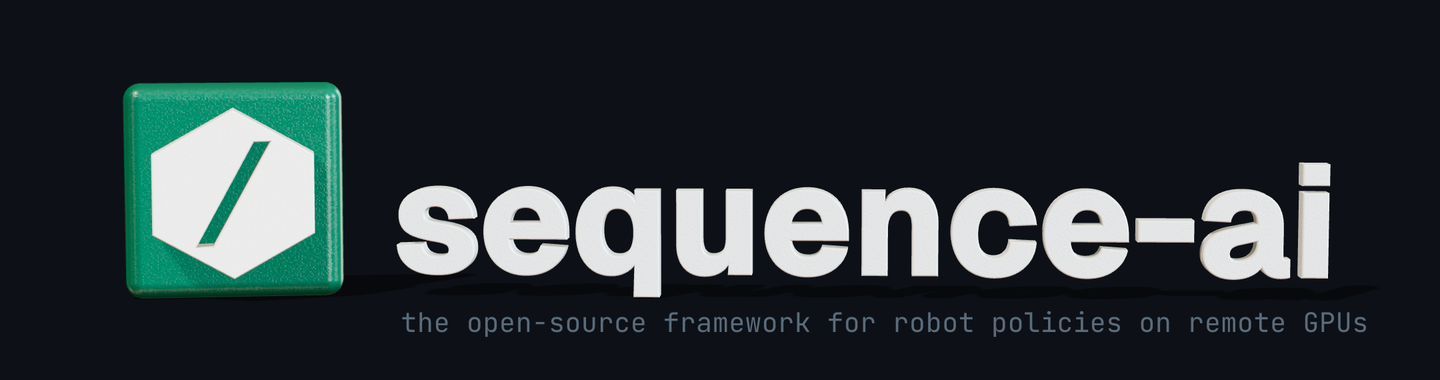
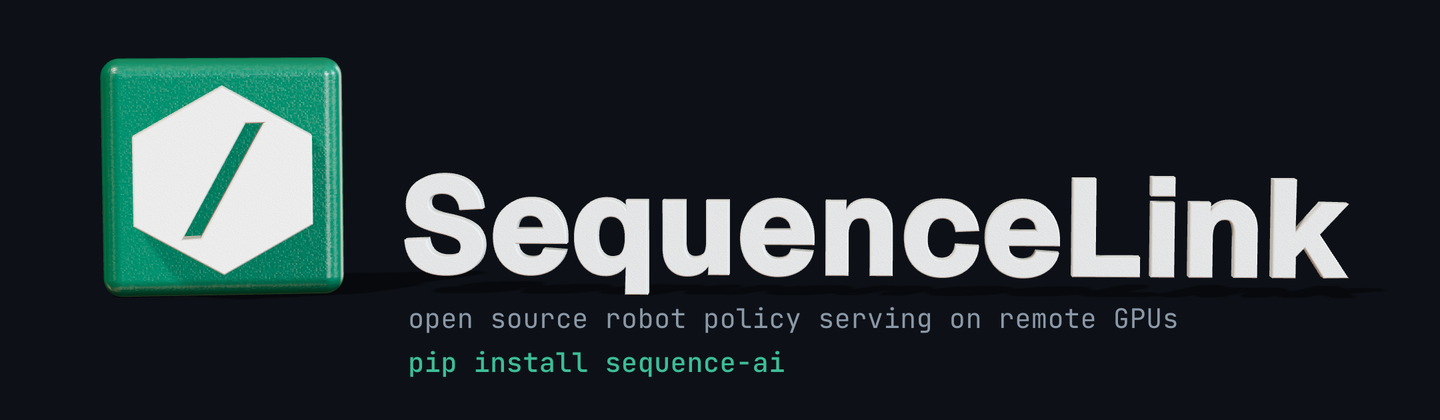
sequence-ai 0.64.1
A benchmark that types a setting no eval can set is refused when you deploy it, and a `--param` value reaches a text
parameter as you typed it.

### Changed

- `seq deploy` refuses a benchmark whose constructor types a setting no eval can set, such as
  `scale: float | str | None`, and says how to type it.

### Fixed

- `--param benchmark.scale=1.10` reaches a `str` parameter as `"1.10"`, as typed, not as `"1.1"`.

Changed region(s): [[0.0625, 0.1158, 0.9375, 0.7816], [0.2812, 0.8105, 0.9688, 0.8974]]

diff --git a/platform.md b/platform.md
@@ -1,7 +1,8 @@
-# The platform guide
+# The SequenceLink platform guide
 
-Deploy a robot policy on General Sequences, then drive a robot with it. This is the guide to the hosted platform that
-`sequence-ai` is the client of; the [README](README.md) has the components that run on any GPU.
+Deploy a robot policy on SequenceLink's hosted platform, on General Sequences' GPUs, then drive a robot with it. This is
+the guide to the hosted platform; `pip install sequence-ai` installs its client and the `seq` command, and the
+[README](README.md) has the open-source components that run on any GPU.
 
 ```bash
 pip install sequence-ai                  # Python 3.10+ for `seq`; a 3.9 robot gets the client alone
@@ -43,8 +44,8 @@ how to play the rows is your own loop: this one stops the arm while each answer 
 
 There is no shared model to call: every policy runs as a deployment of the account that deployed it, started from
 a template (`seq init --list`) or from your own code. `seq init <template>` writes the template's stable version
-when this sequence-ai can deploy it, and otherwise the newest version it can, saying which and why; `@stable`,
-`@beta` or `@vN` after the name is written as named, with a warning when this sequence-ai cannot deploy it.
+when your installed `sequence-ai` can deploy it, and otherwise the newest version it can, saying which and why; `@stable`,
+`@beta` or `@vN` after the name is written as named, with a warning when your installed `sequence-ai` cannot deploy it.
 
 ---
 
@@ -140,8 +141,8 @@ entire budget.
 
 On Linux, a connection that sent nothing for longer than its retransmission timeout restarts its congestion window
 (`net.ipv4.tcp_slow_start_after_idle`, on by default), so an upload of camera frames after a pause can take one more
-round trip. sequence-ai has its connection to the worker use BBR where the robot allows it: BBR does not restart, and
-`sudo modprobe tcp_bbr` makes it available - sequence-ai then takes it on its own. Or turn the restart off on the robot:
+round trip. SequenceLink has its connection to the worker use BBR where the robot allows it: BBR does not restart, and
+`sudo modprobe tcp_bbr` makes it available - SequenceLink then takes it on its own. Or turn the restart off on the robot:
 `sudo sysctl -w net.ipv4.tcp_slow_start_after_idle=0` (in a container, which has its own copy of it:
 `docker run --sysctl net.ipv4.tcp_slow_start_after_idle=0 ...`).
 
@@ -355,7 +356,7 @@ robot is put in line, and `act()` asks again at the pace your key's rate limit a
 minutes in line with the reason in one sentence. Closing the policy (`with` does it) gives its slot —
 or its place in line — to the next robot at once.
 
-A slot follows the policy that holds it. While the policy is open, sequence-ai keeps the slot alive in the background,
+A slot follows the policy that holds it. While the policy is open, SequenceLink keeps the slot alive in the background,
 between acts too, so a robot that stops for a minute or two to reset its scene keeps it. It is given back the moment
 the policy closes (`close()`, or the end of a `with`), is garbage-collected, or its process exits or is stopped
 (`SIGTERM`, `SIGHUP`); a process that is killed or loses its network gives it back within 60 s. So is what
@@ -405,8 +406,8 @@ moves the actions by about a tenth of what the policy's own sampling does. `sequ
 
 ### Fit each frame on the robot, the way the policy was trained
 
-Fit each frame on the robot, before sending, with the tools sequence-ai gives you: a worker never resizes one, and nothing
-in sequence-ai resizes a frame behind your back (`encode()` sends a frame at its own size).
+Fit each frame on the robot, before sending, with the tools SequenceLink gives you: a worker never resizes one, and nothing
+in SequenceLink resizes a frame behind your back (`encode()` sends a frame at its own size).
 
 ```python
 img_user = sequence_ai.resize_image(frame_user, 224, 224, mode="pad", filter="bilinear")
@@ -452,7 +453,7 @@ kind, and every note goes to the debug log of the `sequence_ai` logger. Latency 
 
 ## The loop is yours
 
-sequence-ai does not play actions. `observe()` hands the policy what the robot sees, and `act()` returns what the
+SequenceLink does not play actions. `observe()` hands the policy what the robot sees, and `act()` returns what the
 policy's act function returned; when to ask for the next answer and how to play it is your own code — the code that
 calls `act()` already.
 
@@ -662,10 +663,10 @@ composite (VLM) evals, and every `seq.eval` parameter — is in `eval.md`, insta
 This library does not check joint limits, reachability, collisions, or whether a step is safe
 at the robot's current velocity. Bounds checking and an e-stop belong between this library and your motors.
 
-**When the arm runs out of answer.** sequence-ai knows when the answer the robot plays runs out: its act's send time
+**When the arm runs out of answer.** SequenceLink knows when the answer the robot plays runs out: its act's send time
 plus its `action_chunk_valid_len` steps at `hz`. Once a robot asks ahead - an act sent while the answer it plays
 still has valid steps - and that answer runs out with no next one in hand, `on_stale` is called that moment, from a
-thread of sequence-ai's, and `on_resume` as the next answer comes, before `act()` returns it:
+thread of SequenceLink's, and `on_resume` as the next answer comes, before `act()` returns it:
 
 ```python
 def hold_user(stale_user):         # the arm has nothing valid to play: hold it
@@ -686,7 +687,7 @@ robot that asks only once its answer ran out waits for every answer and is not w
 and kept on `policy.stale` (`.now`, `.events`, `.stale_s`, `.last`); with no `on_stale` set, the first is said once a
 process.
 
-The platform hears your robot too: from its first `observe()` or `act()` on, sequence-ai on the robot sends its worker a heartbeat every
+The platform hears your robot too: from its first `observe()` or `act()` on, SequenceLink on the robot sends its worker a heartbeat every
 0.4 s saying how the arm stands, and `seq robot show` says each connection's - acting (asking ahead), waiting, stale
 (and why, for how long) or silent once it was not heard for 2 s: its process gone, hung, or its link down. A stretch
 that lasts past a heartbeat is two lines of `seq policy logs` too, as it began and as it ended, with the late act's
@@ -695,7 +696,7 @@ request id.
 It is no emergency stop: it runs in your robot's process and needs that process alive. Keep a physical e-stop between
 this library and your motors.
 
-sequence-ai runs no loop, so nothing in it bounds one: give the loop that moves your robot a bound of its own — a time, a
+SequenceLink runs no loop, so nothing in it bounds one: give the loop that moves your robot a bound of its own — a time, a
 step count — and a way to hold the arm when it stops early.
 
 ## Errors are typed
@@ -715,7 +716,7 @@ Every error the platform sends has one shape — `detail`, `code`, `retryable`, 
 | `Gone` | `gone` | retired on purpose; `.replacement` names what to use instead | 4 |
 | `Conflict` | `conflict` | the state is in the way: a name taken; a deployment building, failed or stopped; a limit reached — your account's GPU cards all in use is `details["reason"] == "gpu_limit_reached"`, and the message says what serving and evals hold; deleting a secret a deployment still uses is `details["reason"] == "secret_in_use"` with the deployments in `details["deployments"]` (`seq secret rm --force` deletes anyway) | 5 |
 | `NewVersion` | `conflict` | a `Conflict`: a new version went live, or a rollback made another serve, which ended this connection, whatever it was doing: every call on it raises this. `connect()` again reaches the version that serves, `.version` | 5 |
-| `Unavailable` | `busy`, `warming`, `unavailable`, `upstream_error`, `timeout` | worth retrying after `.retry_after_s`; `.warming` means a cold worker and `.queued` a robot in line for a slot — sequence-ai waits both out on every `act()`, within `startup_timeout_s`; with no GPU available, `details["reason"]` says why (`gpu_busy`, `gpu_limit_reached`, `gpu_low_stock`, `deployment_full`, `in_line`, `queue_timeout`) | 7 |
+| `Unavailable` | `busy`, `warming`, `unavailable`, `upstream_error`, `timeout` | worth retrying after `.retry_after_s`; `.warming` means a cold worker and `.queued` a robot in line for a slot — SequenceLink waits both out on every `act()`, within `startup_timeout_s`; with no GPU available, `details["reason"]` says why (`gpu_busy`, `gpu_limit_reached`, `gpu_low_stock`, `deployment_full`, `in_line`, `queue_timeout`) | 7 |
 | `PolicyError` | `policy_error` | your policy's own code raised, or broke its declared contract; `.remote_traceback` has its frames. A built-in exception (`ValueError`, …) comes back as itself | 1 |
 | `InternalError` | `internal`, `dependency_missing` | ours: report it with `.request_id` | 1 |
 
@@ -1150,7 +1151,7 @@ they came from.
 Weights are validated as you write them: an unknown scheme, a `..` traversal, an `hf://` without a repo, or a
 template name that is not one is rejected with a message that names the problem.
 
-`seq.Secret.from_name(name)` references a credential by name; the plaintext never enters sequence-ai or
+`seq.Secret.from_name(name)` references a credential by name; the plaintext never enters SequenceLink or
 the deploy payload.
 
 ### Versions, rollback, stop
@@ -1303,7 +1304,7 @@ seq deploy my_pi05_user --dry-run         # a folder of several classes:  seq de
 
 `seq deploy --dry-run` imports the policy's file as a deploy does (what it imports must be installed here) and reads
 its declaration — it never builds the class or runs `infer` — into the deployment request, validates it against the
-copy of the platform's contract in your installed sequence-ai, and echoes back exactly what will be installed, where the weights mount and which files
+copy of the platform's contract in your installed `sequence-ai`, and echoes back exactly what will be installed, where the weights mount and which files
 are uploaded — with **nothing built or run on the platform**. It says, as `seq
 deploy` does, what the declarations make of the policy: what it reads of each observation and how its answers play (a
 policy of its own I/O), whose its episodes are, what its build check acts on, and how many robots a copy seats - and
@@ -1316,7 +1317,7 @@ data) - and the dry run prices it; without a key it is the checks here alone, an
 
 ```
 policy      my_pi05_user
-contract    valid for deployment contract 0.5.52, the one this version of sequence-ai speaks (the platform checks it again when you deploy)
+contract    valid for deployment contract 0.5.52, the one this version of SequenceLink speaks (the platform checks it again when you deploy)
 image       nvidia/cuda:12.2.2-cudnn8-runtime-ubuntu22.04@sha256:131e238d724ee145317f10d6c8eba0d301439c6c8764b02473510e7035756e81
   add               third_party/openpi/src → /opt/openpi/src
   add               third_party/openpi/packages/openpi-client → /opt/openpi/packages/openpi-client
@@ -1409,7 +1410,7 @@ seq secret rm model_key          # refused while a deployment uses it (it lists 
 seq secret rm model_key --force  # delete even in use — those deployments' workers then stop (fail-closed)
 ```
 
-`ls` is metadata only. There is **no command that reads a stored value back** — from sequence-ai a secret is
+`ls` is metadata only. There is **no command that reads a stored value back** — from SequenceLink a secret is
 write-only. Re-running `seq secret set <name>` **rotates** the key (it replaces the whole bundle); no delete
 first — a rotated value reaches every worker, the running ones and the ones that start next.
 
@@ -1526,10 +1527,10 @@ What the platform fixes; everything else is your code's. Each value is what the 
 | A management request | 16 MiB; a deploy or a benchmark's registration, which carries its code and its build context, 24 MiB. |
 | The code a deploy uploads | 8 MiB compressed: the folder, whole, and what `seq.Image.add_local_*` names outside it. A source tree over 64 MiB is refused before it is sent; the refusal names the largest paths and how to leave them out (`.seqignore`). Weights never travel with the code — they go in `weights=`. |
 | Robots one worker serves at once | Its seats: one robot per model copy, one copy a card group of `gpus_per_replica` cards (default: all of the worker's); `@seq.concurrent(sizes=[1, 2, 4, 8])` on infer seats more, sharing a copy — as many as the largest listed size whose batch answers within the time its robots can wait for an answer (the steps from `action_chunk_replan_at` to `action_chunk_valid_len`, at `hz`), as long as, run together on a simulated clock, at least 95% of their answers are in time and their batches fill at most 90% of the time between a robot's asks (`action_chunk_replan_at` steps at `hz`), 64 robots a copy at most whatever it lists. A request within a worker's seats is never answered `429`. |
-| No slot free | Another worker starts while GPUs are left; connect answers `503` with `retry_after_s` while it does, and sequence-ai waits for it. With none left — the deployment's `max_gpus`, your account's, the platform's — the robot waits in line before its control loop starts, as long as the platform keeps its place. A loop that has started is never interrupted. |
+| No slot free | Another worker starts while GPUs are left; connect answers `503` with `retry_after_s` while it does, and SequenceLink waits for it. With none left — the deployment's `max_gpus`, your account's, the platform's — the robot waits in line before its control loop starts, as long as the platform keeps its place. A loop that has started is never interrupted. |
 | One worker | One machine, up to 8 GPUs (`gpu="H100:8"`); a deploy, upgrade, rollback or eval that asks for more cards per worker is refused. For more robots, raise `max_gpus`: more workers, each on a machine of its own. |
 | GPU cards at once | Your plan's: 15 on Starter, 50 on Team, serving and evals together (`seq account` shows them); `max_gpus` caps one deployment. An eval they cannot fit waits in line up to 10 minutes. |
-| A worker going away | Its acts are answered `503 unavailable` (`reason: draining`); sequence-ai reconnects to another worker and replays the act. |
+| A worker going away | Its acts are answered `503 unavailable` (`reason: draining`); SequenceLink reconnects to another worker and replays the act. |
 | Shutdown | Before a worker is removed, the acts in flight finish and every replica runs `@seq.shutdown` — within 30 s. After that the worker is stopped without further notice. |
 | Scale to zero | A worker ends after its idle timeout with no robot acting: 60 seconds unless its deployment sets another, 2 seconds to 20 minutes. `min_workers` (default 0) keeps some warm. |
 | Cards | The platform's price list names them (`GET /v1/pricing`): A100, A100-40GB, H100, L4 and RTX-PRO-6000 as of 2026-11. A benchmark's sims run on an L4 or an RTX-PRO-6000, or on CPU machines when it says `gpu="cpu"`. |

diff --git a/README.md b/README.md
@@ -1,7 +1,7 @@
 <p align="center">
   <picture>
     <source media="(prefers-color-scheme: dark)" srcset="https://raw.githubusercontent.com/General-Sequences/sequence-ai/main/docs/banner-dark.png">
-    <img alt="sequence-ai" src="https://raw.githubusercontent.com/General-Sequences/sequence-ai/main/docs/banner-light.png" width="720">
+    <img alt="SequenceLink" src="https://raw.githubusercontent.com/General-Sequences/sequence-ai/main/docs/banner-light.png" width="720">
   </picture>
 </p>
 
@@ -12,16 +12,16 @@
   <a href="https://github.com/General-Sequences/sequence-ai/blob/main/LICENSE"><img alt="license: Apache-2.0" src="https://img.shields.io/badge/license-Apache--2.0-15775C?style=flat-square"></a>
 </p>
 
-`sequence-ai` is an open-source framework for serving robot policies from remote GPUs over wide-area networks (WANs). It
-is used with openpi, LeRobot, GR00T and Octo policies, and with any policy given as a function. It runs on your own
-GPU, or on one rented from [General Sequences](https://generalsequences.com) near your robot: on the robot, only what
-`connect()` is given changes.
+SequenceLink is an open-source framework for serving robot policies from remote GPUs over wide-area networks (WANs); its
+package is `sequence-ai`. It is used with openpi, LeRobot, GR00T and Octo policies, and with any policy given as a function. It runs on your own
+GPU, or on one rented from [General Sequences](https://generalsequences.com) near your robot, where SequenceLink is also
+the hosted platform: on the robot, only what `connect()` is given changes.
 
 Give it a policy server and a robot. On the GPU, it replays the module a model calls many times per inference from CUDA
 graphs, with exactly the same outputs, and batches several robots' requests within the slack their action chunks
 leave. On the connection, it keeps the TCP congestion window open across the robot's pauses, so a 24 KB upload after
-a pause takes one round trip where it took two, at RTTs from 12 to 101 ms. Together these are GS-WAN (General Sequences
-Wide-Area Network). Each component is one file that can be added to existing code.
+a pause takes one round trip where it took two, at RTTs from 12 to 101 ms. Together these are
+SequenceLink. Each component is one file that can be added to existing code.
 
 <p align="center">
   <a href="#quick-start">Quick start</a> ·
@@ -171,7 +171,7 @@ Sequences, reached with this package's `seq gpu` commands. [Three ways to run it
 
 | Component | What it does | To add it | Requires |
 |---|---|---|---|
-| [`serve`](https://github.com/General-Sequences/sequence-ai/blob/main/sequence_ai/engine/serve.py) | Serves a policy, given as a function or a batch function, to robots elsewhere: on a thread of its own, pings answered at once, a warm-up, pictures and compressed arrays restored. `openpi.batched(policy)` makes an openpi policy a batch function. | one call | what sequence-ai installs |
+| [`serve`](https://github.com/General-Sequences/sequence-ai/blob/main/sequence_ai/engine/serve.py) | Serves a policy, given as a function or a batch function, to robots elsewhere: on a thread of its own, pings answered at once, a warm-up, pictures and compressed arrays restored. `openpi.batched(policy)` makes an openpi policy a batch function. | one call | what `pip install sequence-ai` installs |
 | [`cuda_graphs`](https://github.com/General-Sequences/sequence-ai/blob/main/sequence_ai/engine/cuda_graphs.py) | Replays a torch module that your model calls many times per run from CUDA graphs captured from its own eager kernels. A graph is kept only when its output is exactly the same. | one call | torch 2.4 or later, a CUDA GPU |
 | [`batcher`](https://github.com/General-Sequences/sequence-ai/blob/main/sequence_ai/engine/batcher.py) | Batches the calls waiting for a model into one call, in the batch sizes the model lists. | one object, one `await` | nothing |
 | [`replicas`](https://github.com/General-Sequences/sequence-ai/blob/main/sequence_ai/engine/replicas.py) | Runs replicas of a model, each in its own process on the GPU assigned to it, and replaces one that dies. | one object, one `await` | nothing |
@@ -378,11 +378,11 @@ Issues and pull requests are welcome: see [CONTRIBUTING.md](https://github.com/G
 
 ## Cite
 
-If you use `sequence-ai` in research, please cite it:
+If you use SequenceLink in research, please cite it:
 
 ```bibtex
 @software{generalsequences2026sequenceai,
-  title  = {sequence-ai},
+  title  = {SequenceLink},
   author = {{General Sequences}},
   year   = {2026},
   url    = {https://github.com/General-Sequences/sequence-ai}

diff --git a/docs/README.md b/docs/README.md
@@ -1,6 +1,6 @@
-# sequence-ai documentation
+# SequenceLink documentation
 
-`sequence-ai` is an open-source framework for serving robot policies from remote GPUs over wide-area networks: on the
+SequenceLink is an open-source framework for serving robot policies from remote GPUs over wide-area networks: on the
 GPU, `sequence_ai.serve(policy)`; on the robot, `sequence_ai.connect(address)`. Its inference layer
 (`sequence_ai.engine`) and network layer (`sequence_ai.network`) also work in a policy server of your own. The same
 package is the client of General Sequences' GPUs and hosted deployments (`seq`, `sequence_ai.gpu`). Each page here

diff --git a/AGENTS.md b/AGENTS.md
@@ -1,6 +1,6 @@
 # For coding assistants
 
-`sequence-ai` is an open-source framework for serving robot policies from remote GPUs over wide-area networks. Two parts
+SequenceLink is an open-source framework for serving robot policies from remote GPUs over wide-area networks. Two parts
 of it work with any policy server and are developed in this repository: the inference layer in `sequence_ai/engine/`
 and the network layer in `sequence_ai/network/`, independent components of one file each. A change here is almost
 always a change to one of those files. [`llms.txt`](llms.txt) maps the files; each module's docstring is its reference.

diff --git a/docs/how-do-i-serve-a-robot-policy-from-my-own-gpu.md b/docs/how-do-i-serve-a-robot-policy-from-my-own-gpu.md
@@ -112,7 +112,7 @@ fewer forward passes; one robot's request is no faster for it.
 
 Keep it. `connect()` needs two things from a server: a POST that takes a msgpack body and responds with msgpack or
 JSON, and any cheap GET for its ping. To get the rest of the defaults, a server also says what it restores in an
-`X-Seq-Reads` header and restores it, and says it is a sequence-ai server in `X-Seq-Server`. In a FastAPI app:
+`X-Seq-Reads` header and restores it, and says it is a SequenceLink server in `X-Seq-Server`. In a FastAPI app:
 
 ```python
 import asyncio

diff --git a/docs/how-do-i-reduce-the-latency-of-lerobot-remote-inference.md b/docs/how-do-i-reduce-the-latency-of-lerobot-remote-inference.md
@@ -1,7 +1,7 @@
 # How do I reduce the latency of LeRobot remote inference?
 
 Start with the link, because LeRobot 0.7's remote inference already manages the robot's timing itself: put the
-policy server near the robot, measure the link, and keep the link from going idle between observations. `sequence-ai`
+policy server near the robot, measure the link, and keep the link from going idle between observations. SequenceLink
 has one small component for the last of these, a Zenoh setting, and it is the only thing here that touches LeRobot.
 
 ```python

diff --git a/docs/how-do-i-run-pi0-openpi-on-a-remote-gpu.md b/docs/how-do-i-run-pi0-openpi-on-a-remote-gpu.md
@@ -1,7 +1,7 @@
 # How do I run π0 (openpi) on a remote GPU?
 
 Run openpi's own policy server on the GPU and openpi's own client on the robot, as openpi's guide describes.
-`sequence-ai` then changes the command that starts the server, and two lines on the robot: the server pings each robot
+SequenceLink then changes the command that starts the server, and two lines on the robot: the server pings each robot
 and takes its pictures as JPEG, and the robot sends them that way and keeps its connection from going idle between
 action chunks.
 

diff --git a/THIRD_PARTY_NOTICES.md b/THIRD_PARTY_NOTICES.md
@@ -1,6 +1,6 @@
 # Third-party notices
 
-`sequence-ai` is licensed under the Apache License, Version 2.0. Parts of two of its components are adapted from another
+SequenceLink (the `sequence-ai` package) is licensed under the Apache License, Version 2.0. Parts of two of its components are adapted from another
 open-source project, and the page `seq eval replay` serves carries other projects' files unchanged. Each is named here
 with its license.
 

diff --git a/bench/README.md b/bench/README.md
@@ -1,6 +1,6 @@
 # bench: measure your own link
 
-What a network component of sequence-ai saves depends on the link between your robot and your GPU. These two files measure
+What a network component of SequenceLink saves depends on the link between your robot and your GPU. These two files measure
 that link, so you add the components that help on it and leave the ones that do not.
 
 ```bash

diff --git a/CHANGELOG.md b/CHANGELOG.md
@@ -1,6 +1,6 @@
 # Changelog
 
-What changed in each release of `sequence-ai`, newest first. It starts at 0.34.10. The same notes are public at
+What changed in each release of SequenceLink's package, `sequence-ai`, newest first. It starts at 0.34.10. The same notes are public at
 https://generalsequences.com/docs/changelog/.
 
 ## 0.64.1 — 2026-11-19

diff --git a/RELEASING.md b/RELEASING.md
@@ -1,4 +1,4 @@
-# Releasing sequence-ai
+# Releasing SequenceLink
 
 Versions follow [Semantic Versioning](https://semver.org). Before 1.0.0, a minor version may change an interface;
 [CHANGELOG.md](CHANGELOG.md) says so under **Changed** when one does.

diff --git a/CONTRIBUTING.md b/CONTRIBUTING.md
@@ -1,4 +1,4 @@
-# Contributing to sequence-ai
+# Contributing to SequenceLink
 
 Thank you for taking the time. This page describes how to set up, what a change needs before it is merged, and how the
 code here is written.
